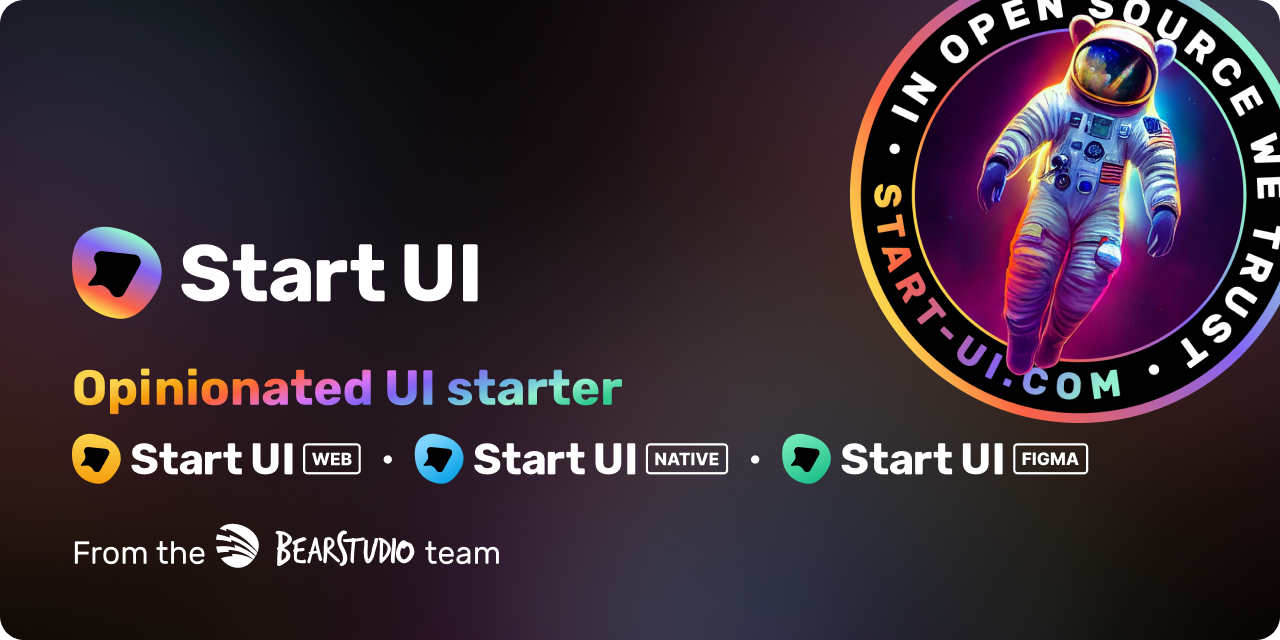
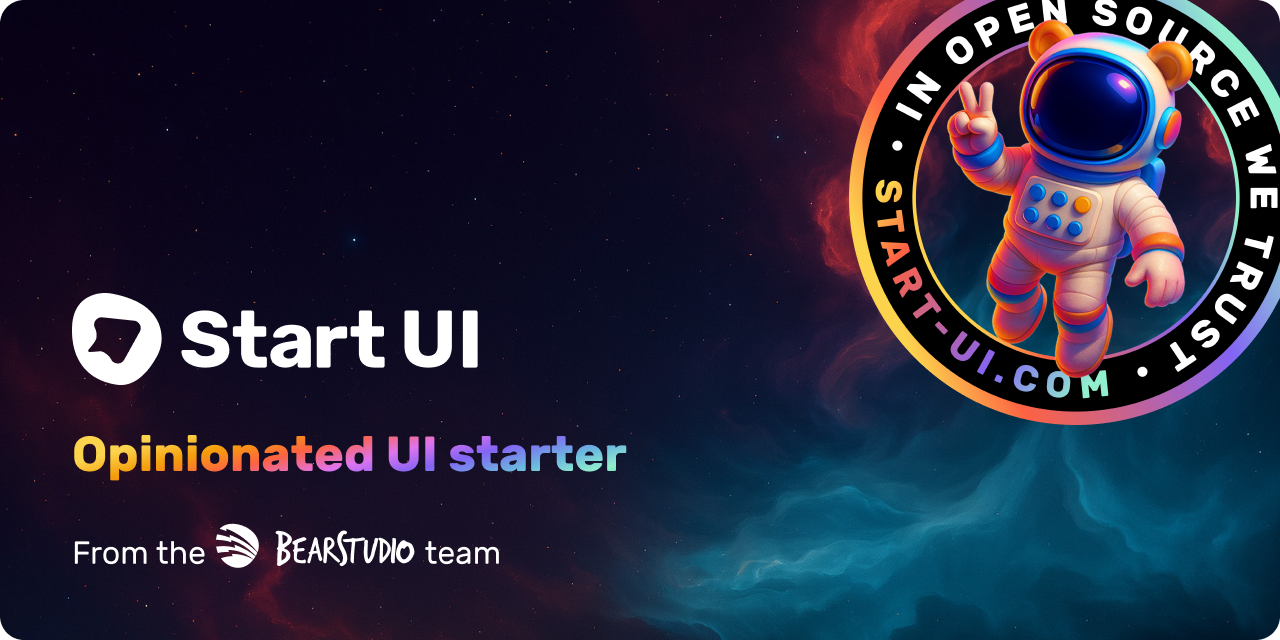
v3 update (#5)

diff --git a/src/app/page.tsx b/src/app/page.tsx
@@ -78,27 +78,27 @@ export default function Home() {
               </a>
               ,{' '}
               <a
-                href="https://nextjs.org/"
+                href="https://tanstack.com/start/latest"
                 target="_blank"
                 rel="noopener noreferrer"
               >
-                NextJS
+                Tanstack Start
               </a>
               ,{' '}
               <a
-                href="https://chakra-ui.com/"
+                href="https://tailwindcss.com/"
                 target="_blank"
                 rel="noopener noreferrer"
               >
-                Chakra UI
+                Tailwind CSS
               </a>
               ,{' '}
               <a
-                href="https://trpc.io/"
+                href="https://ui.shadcn.com/"
                 target="_blank"
                 rel="noopener noreferrer"
               >
-                tRPC
+                Shadcn/ui
               </a>
               ,{' '}
               <a
@@ -186,7 +186,7 @@ export default function Home() {
           <SectionImage
             src="/native.jpg"
             alt="Start UI Web"
-            href="http://web.start-ui.com/"
+            href="http://native.start-ui.com/"
             className="shadow-native-500/30 group-hover:shadow-native-500/40"
           />
           <SectionContent>
@@ -228,18 +228,18 @@ export default function Home() {
               ,{' '}
               <a
                 target="_blank"
-                href="https://www.zodios.org/"
+                href="https://github.com/hey-api/openapi-ts"
                 rel="noopener noreferrer"
               >
-                Zodios
+                HeyAPI
               </a>
               ,{' '}
               <a
                 target="_blank"
-                href="https://formiz-react.com/"
+                href="https://tanstack.com/form/latest"
                 rel="noopener noreferrer"
               >
-                Formiz
+                TanStack Form
               </a>{' '}
               and more.
             </p>
@@ -256,7 +256,7 @@ export default function Home() {
           <SectionTitle>
             <a target="_blank" href="http://figma.start-ui.com/">
               <LogoFigma className="h-8" />
-              <span className="sr-only">Start UI Web</span>
+              <span className="sr-only">Start UI Figma</span>
             </a>
           </SectionTitle>
           <SectionImage
@@ -368,11 +368,16 @@ export default function Home() {
 
 export function FixedSidebar() {
   return (
-    <div className="relative z-20 flex min-h-[90vh] flex-1 flex-col overflow-hidden bg-gray-950 lg:fixed lg:bottom-0 lg:left-0 lg:top-0 lg:w-[36rem]">
-      {/* GRADIENT */}
-      <div className="gradient-text-rgb absolute left-1/2 top-0 h-[300px] w-[300px] -translate-x-1/2 -translate-y-2/3 opacity-60 blur-[80px] lg:left-auto lg:right-0 lg:h-[500px] lg:w-[500px] lg:translate-x-1/2 lg:blur-[100px]" />
-      <div className="gradient-text-rgb absolute bottom-0 left-1/2 h-[300px] w-[300px] -translate-x-1/2 translate-y-2/3 opacity-40 blur-[80px] lg:left-auto lg:right-0 lg:h-[500px] lg:w-[500px] lg:translate-x-1/2 lg:blur-[100px]" />
-
+    <div className="relative z-20 flex min-h-[90vh] flex-1 flex-col overflow-hidden bg-black lg:fixed lg:bottom-0 lg:left-0 lg:top-0 lg:w-[36rem]">
+      <div className="pointer-events-none absolute inset-0">
+        <Image
+          className="h-full w-full max-w-none object-cover"
+          src="/space-bg.jpg"
+          alt=""
+          width={1536}
+          height={1024}
+        />
+      </div>
       <div className="flex flex-1 flex-col overflow-y-auto overflow-x-hidden">
         <div className="relative mx-auto flex max-w-md flex-1 flex-col px-8">
           <div className="relative flex flex-1 flex-col items-center justify-center gap-8 py-16 text-center [text-wrap:balance]">

diff --git a/src/components/Section.tsx b/src/components/Section.tsx
@@ -1,6 +1,5 @@
 import { cn } from '@/lib/utils';
 import Image from 'next/image';
-import Link from 'next/link';
 import { HTMLAttributes, ReactNode } from 'react';
 
 export type SectionProps = HTMLAttributes<HTMLElement>;
@@ -9,7 +8,10 @@ export const Section = (props: SectionProps) => {
   return (
     <article
       {...props}
-      className={cn('group flex w-full flex-col gap-3', props.className)}
+      className={cn(
+        'group flex w-full scroll-mt-8 flex-col gap-3',
+        props.className
+      )}
     />
   );
 };
